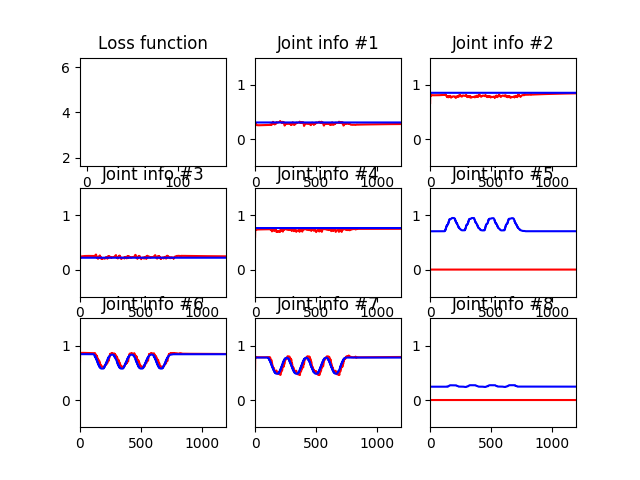
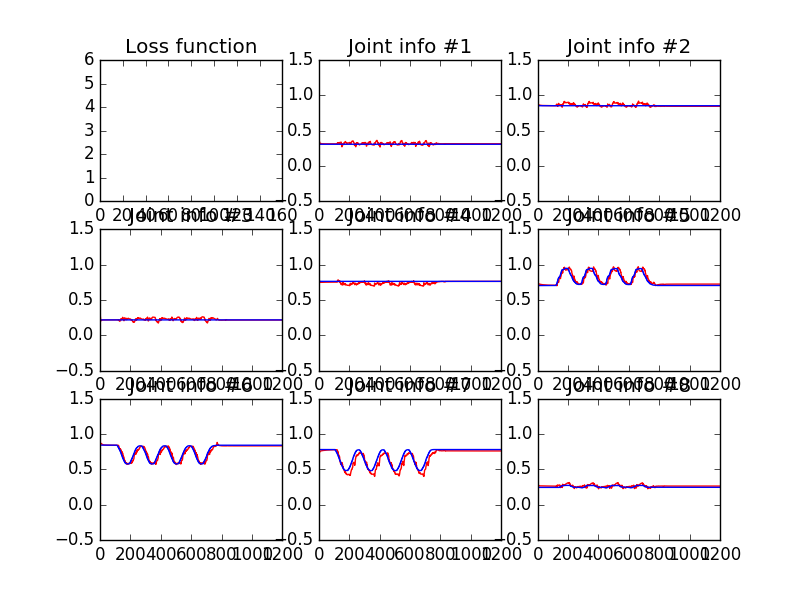
testing graph complete

Changed region(s): [[0.0625, 0.0625, 0.9375, 0.9375], [0.875, 0.7188, 0.9062, 0.75]]

diff --git a/RNN_new/GRU_v2-3.py b/RNN_new/GRU_v2-3.py
@@ -23,7 +23,7 @@ total_cell_size = np.sum(cell_size)
 num_layer = 3
 batch_size = 1
 num_batch = 1
-seq_len = 60
+seq_len = 80
 
 encode_path = './data/encode/'
 joint_path = {
@@ -44,50 +44,51 @@ def initJoint(length):
     joint[:, :, 0:joint_size] = j
     return joint
 
-# GRU graph input for training
-x_placeholder = tf.placeholder(tf.float64, [None, None, vision_size])
-y_placeholder = tf.placeholder(tf.float64, [None, None, output_size])
-Y_ = tf.reshape(y_placeholder, [-1, output_size])
-Hin = tf.placeholder(tf.float64, [None, total_cell_size])
-Xj = tf.Variable(initJoint(seq_len))
-reset = tf.assign(Xj, initJoint(seq_len))
-
-# GRU graph input for testing
-x_t = tf.placeholder(tf.float64, [None, 1, vision_size])
-y_t = tf.placeholder(tf.float64, [None, 1, output_size])
-Hin_t = tf.placeholder(tf.float64, [None, total_cell_size])
-Xj_t = tf.Variable(initJoint(1))
-reset_t = tf.assign(Xj_t, initJoint(1))
-
-# GRU model for training
-w_j = tf.Variable(tf.random_normal([cell_size[2], joint_size]))
-w_v = tf.Variable(tf.random_normal([cell_size[2], vision_size]))
-b_j = tf.Variable(tf.zeros[joint_size])
-b_v = tf.Variable(tf.zeros[vision_size])
-mcell = tf.contrib.rnn.MultiRNNCell([tf.contrib.rnn.GRUCell(cell_size[i]) for i in range(num_layer)], state_is_tuple = False)
-x_in = tf.concat([Xj, x_placeholder], 2)
-out, state = tf.nn.dynamic_rnn(mcell, x_in, initial_state = Hin)
-
-# GRU model for testing
-x_in_t = tf.concat([Xj_t, x_t], 2)
-out_t, state_t = tf.nn.dynamic_rnn(mcell, x_in_t, initial_state = Hin_t)
-
-# output
-#Yj = tf.contrib.layers.linear(tf.reshape(out, [-1, cell_size[2]]), joint_size)
-#Yv = tf.contrib.layers.linear(tf.reshape(out, [-1, cell_size[2]]), vision_size)
-Yj = tf.matmul(tf.reshape(out, [-1, cell_size[2]]), w_j) + b_j
-Yv = tf.matmul(tf.reshape(out, [-1, cell_size[2]]), w_v) + b_v
-Y = tf.concat([Yj, Yv], 1)
-Xj = tf.reshape(Yj, [batch_size, seq_len, joint_size])
-
-# loss and optimizer for self
-loss = tf.contrib.losses.mean_squared_error(Y, Y_)
-optimizer = tf.train.AdamOptimizer(learning_rate).minimize(loss)
-
-# loss and optimizer for other
-Y_j, Y_v = tf.split(Y_, [joint_size, vision_size], 1)
-loss_other = tf.contrib.losses.mean_squared_error(Yv, Y_v)
-optimizer_other = tf.train.AdamOptimizer(learning_rate).minimize(loss_other)
+with tf.variable_scope('GRU') as scope:
+    # GRU graph input for training
+    x_placeholder = tf.placeholder(tf.float64, [None, None, vision_size])
+    y_placeholder = tf.placeholder(tf.float64, [None, None, output_size])
+    Y_ = tf.reshape(y_placeholder, [-1, output_size])
+    Hin = tf.placeholder(tf.float64, [None, total_cell_size])
+    Xj = tf.Variable(initJoint(seq_len))
+    reset = tf.assign(Xj, initJoint(seq_len))
+    
+    # GRU model for training
+    mcell = tf.contrib.rnn.MultiRNNCell([tf.contrib.rnn.GRUCell(cell_size[i]) for i in range(num_layer)], state_is_tuple = False)
+    x_in = tf.concat([Xj, x_placeholder], 2)
+    out, state = tf.nn.dynamic_rnn(mcell, x_in, initial_state = Hin)
+    
+    # output
+    Yj = tf.contrib.layers.fully_connected(tf.reshape(out, [-1, cell_size[2]]), joint_size, activation_fn = None, scope = "joint")
+    Yv = tf.contrib.layers.fully_connected(tf.reshape(out, [-1, cell_size[2]]), vision_size, activation_fn = None, scope = "vision")
+    Y = tf.concat([Yj, Yv], 1)
+    Xj = tf.reshape(Yj, [batch_size, seq_len, joint_size])
+    
+    # loss and optimizer for self
+    loss = tf.contrib.losses.mean_squared_error(Y, Y_)
+    optimizer = tf.train.AdamOptimizer(learning_rate).minimize(loss)
+    
+    # loss and optimizer for other
+    Y_j, Y_v = tf.split(Y_, [joint_size, vision_size], 1)
+    loss_other = tf.contrib.losses.mean_squared_error(Yv, Y_v)
+    optimizer_other = tf.train.AdamOptimizer(learning_rate).minimize(loss_other)
+    
+    # GRU graph input for testing
+    x_t = tf.placeholder(tf.float64, [None, 1, vision_size])
+    Hin_t = tf.placeholder(tf.float64, [None, total_cell_size])
+    Xj_t = tf.Variable(initJoint(1))
+    reset_t = tf.assign(Xj_t, initJoint(1))
+    
+    # GRU model for testing
+    x_in_t = tf.concat([Xj_t, x_t], 2)
+    scope.reuse_variables()
+    out_t, state_t = tf.nn.dynamic_rnn(mcell, x_in_t, initial_state = Hin_t)
+    
+    # test output
+    Yj_t = tf.contrib.layers.fully_connected(tf.reshape(out_t, [-1, cell_size[2]]), joint_size, activation_fn = None, reuse = True,scope = "joint")
+    Yv_t = tf.contrib.layers.fully_connected(tf.reshape(out_t, [-1, cell_size[2]]), vision_size, activation_fn = None, reuse = True, scope = "vision")
+    Y_t = tf.concat([Yj, Yv], 1)
+    Xj_t = tf.reshape(Yj_t, [batch_size, 1, joint_size])
 
 # run the tf graph on CPU
 config = tf.ConfigProto(device_count = {'GPU': 0})
@@ -126,14 +127,16 @@ def test(batch):
     x, y, actual = readData(batch, True)
     
     inH = np.zeros([batch_size, total_cell_size])
-    sess.run(reset)
+    sess.run(reset_t)
+    seq_len = 1
     start_index = 0
     pred_series = []
     while start_index < total_length:
+#        print start_index
         X = x[:, start_index: start_index + seq_len, joint_size:]
         Y_ = y[:, start_index: start_index + seq_len, :]
-        dic = {x_placeholder: X, y_placeholder: Y_, Hin: inH}
-        outH, pred = sess.run([state, Yj], feed_dict = dic)
+        dic = {x_t: X, Hin_t: inH}
+        outH, pred = sess.run([state_t, Yj_t], feed_dict = dic)
         inH = outH
         start_index += seq_len
         for i in range(seq_len):

diff --git a/RNN_new/GRU_v2-2.py b/RNN_new/GRU_v2-2.py
@@ -61,8 +61,8 @@ mcell = tf.contrib.rnn.MultiRNNCell([tf.contrib.rnn.GRUCell(cell_size[i]) for i 
 out, state = tf.nn.dynamic_rnn(mcell, x_in, initial_state = Hin)
 
 # output
-Yj = tf.contrib.layers.linear(tf.reshape(out, [-1, cell_size[2]]), joint_size)
-Yv = tf.contrib.layers.linear(tf.reshape(out, [-1, cell_size[2]]), vision_size)
+Yj = tf.contrib.layers.fully_connected(tf.reshape(out, [-1, cell_size[2]]), joint_size, activation_fn = None, scope = "joint")
+Yv = tf.contrib.layers.fully_connected(tf.reshape(out, [-1, cell_size[2]]), vision_size, activation_fn = None, scope = "vision")
 Y = tf.concat([Yj, Yv], 1)
 Xj = tf.reshape(Yj, [batch_size, seq_len, joint_size])
 
